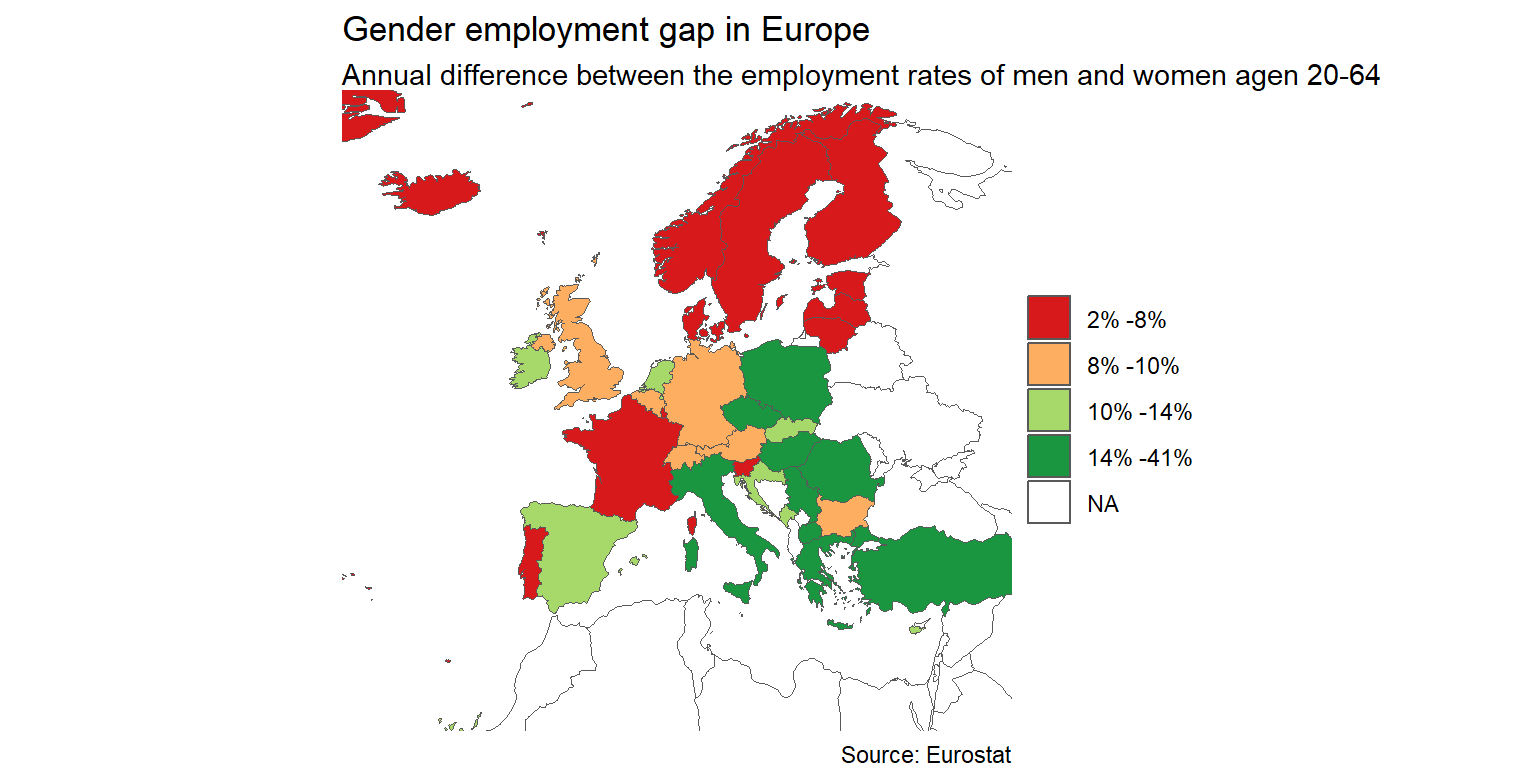
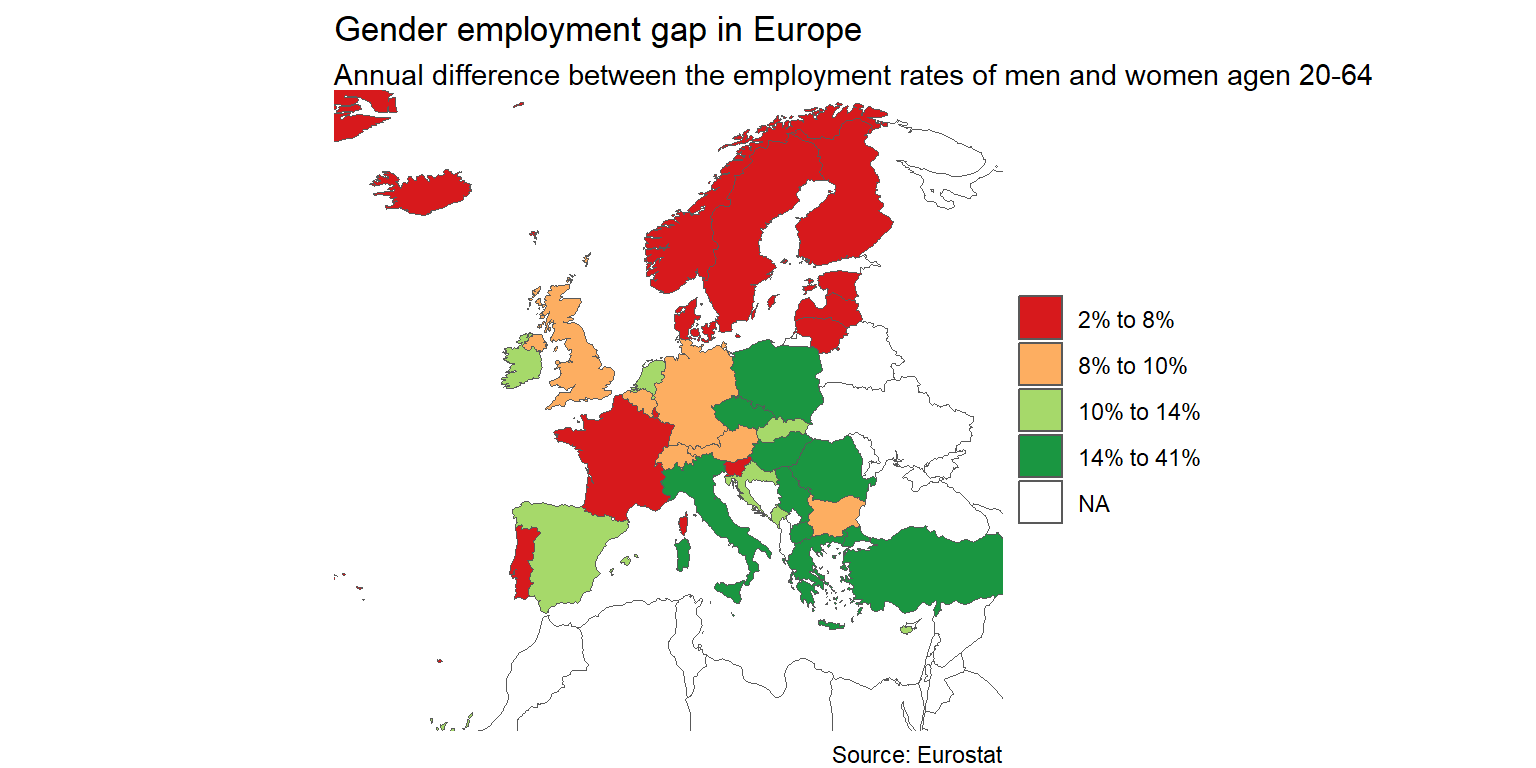
added differences map. fixes #25

diff --git a/Report_3/README.html b/Report_3/README.html
@@ -158,7 +158,7 @@ pre > code.sourceCode > span > a:first-child::before { text-decoration: underlin
 <span id="cb1-38"><a href="#cb1-38" aria-hidden="true" tabindex="-1"></a>               <span class="dv">59</span>)</span>
 <span id="cb1-39"><a href="#cb1-39" aria-hidden="true" tabindex="-1"></a>)</span></code><button title="Copy to Clipboard" class="code-copy-button"><i class="bi"></i></button></pre></div>
 <div class="cell-output cell-output-stdout">
-<pre><code>Test passed 🥳</code></pre>
+<pre><code>Test passed 😸</code></pre>
 </div>
 <div class="sourceCode cell-code" id="cb3"><pre class="sourceCode r code-with-copy"><code class="sourceCode r"><span id="cb3-1"><a href="#cb3-1" aria-hidden="true" tabindex="-1"></a><span class="fu">test_that</span>(<span class="st">"Smallest year should be 2005, largest 2018"</span>,</span>
 <span id="cb3-2"><a href="#cb3-2" aria-hidden="true" tabindex="-1"></a>          <span class="fu">expect_equal</span>(</span>
@@ -166,7 +166,7 @@ pre > code.sourceCode > span > a:first-child::before { text-decoration: underlin
 <span id="cb3-4"><a href="#cb3-4" aria-hidden="true" tabindex="-1"></a>            <span class="fu">max</span>(df_gap_longer<span class="sc">$</span>time) <span class="sc">==</span> <span class="dv">2018</span></span>
 <span id="cb3-5"><a href="#cb3-5" aria-hidden="true" tabindex="-1"></a>          ))</span></code><button title="Copy to Clipboard" class="code-copy-button"><i class="bi"></i></button></pre></div>
 <div class="cell-output cell-output-stdout">
-<pre><code>Test passed 🥳</code></pre>
+<pre><code>Test passed 😀</code></pre>
 </div>
 <div class="sourceCode cell-code" id="cb5"><pre class="sourceCode r code-with-copy"><code class="sourceCode r"><span id="cb5-1"><a href="#cb5-1" aria-hidden="true" tabindex="-1"></a>df_gap_longer <span class="ot">&lt;-</span> df_gap_longer <span class="sc">%&gt;%</span></span>
 <span id="cb5-2"><a href="#cb5-2" aria-hidden="true" tabindex="-1"></a>  <span class="fu">filter</span>(<span class="sc">!</span><span class="fu">is.na</span>(gap)) <span class="co"># Two contries will be dropped here, hence from 41 to 39</span></span>
@@ -183,7 +183,7 @@ pre > code.sourceCode > span > a:first-child::before { text-decoration: underlin
 <span id="cb5-13"><a href="#cb5-13" aria-hidden="true" tabindex="-1"></a>  )</span>
 <span id="cb5-14"><a href="#cb5-14" aria-hidden="true" tabindex="-1"></a>)</span></code><button title="Copy to Clipboard" class="code-copy-button"><i class="bi"></i></button></pre></div>
 <div class="cell-output cell-output-stdout">
-<pre><code>Test passed 😀</code></pre>
+<pre><code>Test passed 🥇</code></pre>
 </div>
 <div class="sourceCode cell-code" id="cb7"><pre class="sourceCode r code-with-copy"><code class="sourceCode r"><span id="cb7-1"><a href="#cb7-1" aria-hidden="true" tabindex="-1"></a><span class="fu">glimpse</span>(df_gap_longer)</span></code><button title="Copy to Clipboard" class="code-copy-button"><i class="bi"></i></button></pre></div>
 <div class="cell-output cell-output-stdout">
@@ -380,7 +380,7 @@ $ gap  &lt;dbl&gt; 16.0, 15.7, 15.6, 15.1, 13.5, 13.0, 12.8, 12.2, 11.7, 11.5, 1
 <span id="cb16-10"><a href="#cb16-10" aria-hidden="true" tabindex="-1"></a>    <span class="fu">slice</span>(<span class="dv">1</span><span class="sc">:</span><span class="fu">n</span>() <span class="sc">-</span> <span class="dv">1</span>) <span class="sc">%&gt;%</span> </span>
 <span id="cb16-11"><a href="#cb16-11" aria-hidden="true" tabindex="-1"></a>    <span class="fu">mutate_all</span>(round, <span class="at">digits =</span> <span class="dv">0</span>) <span class="sc">%&gt;%</span></span>
 <span id="cb16-12"><a href="#cb16-12" aria-hidden="true" tabindex="-1"></a>    <span class="fu">mutate_all</span>(paste0, <span class="st">"%"</span>) <span class="sc">%&gt;%</span> </span>
-<span id="cb16-13"><a href="#cb16-13" aria-hidden="true" tabindex="-1"></a>    <span class="fu">mutate</span>(<span class="at">labs =</span> <span class="fu">paste</span>(lab1, lab2, <span class="at">sep =</span> <span class="st">" -"</span>))</span>
+<span id="cb16-13"><a href="#cb16-13" aria-hidden="true" tabindex="-1"></a>    <span class="fu">mutate</span>(<span class="at">labs =</span> <span class="fu">paste</span>(lab1, lab2, <span class="at">sep =</span> <span class="st">" to "</span>))</span>
 <span id="cb16-14"><a href="#cb16-14" aria-hidden="true" tabindex="-1"></a>  <span class="fu">return</span>(labels<span class="sc">$</span>labs)</span>
 <span id="cb16-15"><a href="#cb16-15" aria-hidden="true" tabindex="-1"></a>}</span>
 <span id="cb16-16"><a href="#cb16-16" aria-hidden="true" tabindex="-1"></a></span>
@@ -483,7 +483,7 @@ $ gap  &lt;dbl&gt; 16.0, 15.7, 15.6, 15.1, 13.5, 13.0, 12.8, 12.2, 11.7, 11.5, 1
 <span id="cb18-37"><a href="#cb18-37" aria-hidden="true" tabindex="-1"></a>        <span class="at">plot.title =</span> <span class="fu">element_text</span>(<span class="at">hjust =</span> <span class="fl">0.5</span>),</span>
 <span id="cb18-38"><a href="#cb18-38" aria-hidden="true" tabindex="-1"></a>        <span class="at">plot.subtitle =</span> <span class="fu">element_text</span>(<span class="at">hjust =</span> <span class="fl">0.5</span>)) <span class="sc">+</span></span>
 <span id="cb18-39"><a href="#cb18-39" aria-hidden="true" tabindex="-1"></a>  <span class="fu">labs</span>(<span class="at">title =</span> <span class="st">"Gender employment gap in Europe"</span>,</span>
-<span id="cb18-40"><a href="#cb18-40" aria-hidden="true" tabindex="-1"></a>       <span class="at">subtitle =</span> <span class="st">"DIfference between 2014 and 2018"</span>,</span>
+<span id="cb18-40"><a href="#cb18-40" aria-hidden="true" tabindex="-1"></a>       <span class="at">subtitle =</span> <span class="st">"DIfference between 2012 and 2018"</span>,</span>
 <span id="cb18-41"><a href="#cb18-41" aria-hidden="true" tabindex="-1"></a>       <span class="at">caption =</span> <span class="st">"Source: Eurostat"</span>) <span class="sc">+</span></span>
 <span id="cb18-42"><a href="#cb18-42" aria-hidden="true" tabindex="-1"></a>  <span class="fu">scale_fill_brewer</span>(<span class="at">palette =</span> <span class="st">"RdYlGn"</span>, <span class="at">direction =</span> <span class="sc">-</span><span class="dv">1</span>) <span class="sc">+</span></span>
 <span id="cb18-43"><a href="#cb18-43" aria-hidden="true" tabindex="-1"></a>  <span class="fu">facet_wrap</span>(<span class="fu">vars</span>(time))</span></code><button title="Copy to Clipboard" class="code-copy-button"><i class="bi"></i></button></pre></div>
@@ -492,8 +492,50 @@ $ gap  &lt;dbl&gt; 16.0, 15.7, 15.6, 15.1, 13.5, 13.0, 12.8, 12.2, 11.7, 11.5, 1
 </div>
 </div>
 </section>
-<section id="task-7-timeseries-from-2012-to-2018" class="level1">
-<h1>Task 7: Timeseries from 2012 to 2018</h1>
+<section id="task-7-differences-in-gender-employment-gap" class="level1">
+<h1>Task 7: Differences in gender employment gap</h1>
+<div class="cell">
+<div class="sourceCode cell-code" id="cb19"><pre class="sourceCode r code-with-copy"><code class="sourceCode r"><span id="cb19-1"><a href="#cb19-1" aria-hidden="true" tabindex="-1"></a><span class="co"># Since we have a long pivot, we use window function to get diff and filter if NA</span></span>
+<span id="cb19-2"><a href="#cb19-2" aria-hidden="true" tabindex="-1"></a>europe_with_gap_diff <span class="ot">&lt;-</span> europe_with_gap_data_ts <span class="sc">%&gt;%</span> </span>
+<span id="cb19-3"><a href="#cb19-3" aria-hidden="true" tabindex="-1"></a>  <span class="fu">arrange</span>(sovereignt,time) <span class="sc">%&gt;%</span> </span>
+<span id="cb19-4"><a href="#cb19-4" aria-hidden="true" tabindex="-1"></a>  <span class="fu">group_by</span>(sovereignt) <span class="sc">%&gt;%</span> </span>
+<span id="cb19-5"><a href="#cb19-5" aria-hidden="true" tabindex="-1"></a>  <span class="fu">mutate</span>(<span class="at">diff =</span> gap<span class="sc">-</span><span class="fu">lag</span>(gap)) <span class="sc">%&gt;%</span> <span class="co">#2018 gap minus 2012 gap</span></span>
+<span id="cb19-6"><a href="#cb19-6" aria-hidden="true" tabindex="-1"></a>  <span class="fu">ungroup</span>() <span class="sc">%&gt;%</span> </span>
+<span id="cb19-7"><a href="#cb19-7" aria-hidden="true" tabindex="-1"></a>  <span class="fu">filter</span>(<span class="sc">!</span><span class="fu">is.na</span>(diff))</span>
+<span id="cb19-8"><a href="#cb19-8" aria-hidden="true" tabindex="-1"></a></span>
+<span id="cb19-9"><a href="#cb19-9" aria-hidden="true" tabindex="-1"></a><span class="co"># get the bins</span></span>
+<span id="cb19-10"><a href="#cb19-10" aria-hidden="true" tabindex="-1"></a>bins <span class="ot">&lt;-</span> <span class="fu">quantile</span>(europe_with_gap_diff <span class="sc">%&gt;%</span></span>
+<span id="cb19-11"><a href="#cb19-11" aria-hidden="true" tabindex="-1"></a>                   <span class="fu">filter</span>(diff <span class="sc">!=</span> <span class="dv">0</span>) <span class="sc">%&gt;%</span></span>
+<span id="cb19-12"><a href="#cb19-12" aria-hidden="true" tabindex="-1"></a>                   <span class="fu">pull</span>(),</span>
+<span id="cb19-13"><a href="#cb19-13" aria-hidden="true" tabindex="-1"></a>                 <span class="fu">c</span>(<span class="dv">0</span>, <span class="fl">0.25</span>, <span class="fl">0.5</span>, <span class="fl">0.75</span>, <span class="dv">1</span>))</span>
+<span id="cb19-14"><a href="#cb19-14" aria-hidden="true" tabindex="-1"></a>rounded_bins <span class="ot">&lt;-</span> <span class="fu">round</span>(bins,<span class="dv">0</span>)</span>
+<span id="cb19-15"><a href="#cb19-15" aria-hidden="true" tabindex="-1"></a></span>
+<span id="cb19-16"><a href="#cb19-16" aria-hidden="true" tabindex="-1"></a><span class="co"># add the labels</span></span>
+<span id="cb19-17"><a href="#cb19-17" aria-hidden="true" tabindex="-1"></a>europe_with_gap_diff <span class="ot">&lt;-</span> europe_with_gap_diff <span class="sc">%&gt;%</span></span>
+<span id="cb19-18"><a href="#cb19-18" aria-hidden="true" tabindex="-1"></a>  <span class="fu">arrange</span>(diff) <span class="sc">%&gt;%</span> </span>
+<span id="cb19-19"><a href="#cb19-19" aria-hidden="true" tabindex="-1"></a>  <span class="fu">mutate</span>(</span>
+<span id="cb19-20"><a href="#cb19-20" aria-hidden="true" tabindex="-1"></a>    <span class="at">bin_diff =</span> <span class="fu">cut</span>(diff,</span>
+<span id="cb19-21"><a href="#cb19-21" aria-hidden="true" tabindex="-1"></a>                   <span class="at">breaks =</span> rounded_bins,</span>
+<span id="cb19-22"><a href="#cb19-22" aria-hidden="true" tabindex="-1"></a>                   <span class="at">labels =</span> <span class="fu">get_labels_from_bins</span>(rounded_bins),</span>
+<span id="cb19-23"><a href="#cb19-23" aria-hidden="true" tabindex="-1"></a>                   <span class="at">right =</span> <span class="cn">TRUE</span>))</span>
+<span id="cb19-24"><a href="#cb19-24" aria-hidden="true" tabindex="-1"></a></span>
+<span id="cb19-25"><a href="#cb19-25" aria-hidden="true" tabindex="-1"></a><span class="fu">ggplot</span>() <span class="sc">+</span></span>
+<span id="cb19-26"><a href="#cb19-26" aria-hidden="true" tabindex="-1"></a>  <span class="fu">geom_sf</span>(<span class="at">data =</span> europe_with_gap_diff,</span>
+<span id="cb19-27"><a href="#cb19-27" aria-hidden="true" tabindex="-1"></a>          <span class="at">mapping =</span> <span class="fu">aes</span>(<span class="at">fill =</span> bin_diff)) <span class="sc">+</span></span>
+<span id="cb19-28"><a href="#cb19-28" aria-hidden="true" tabindex="-1"></a>  <span class="fu">theme_void</span>() <span class="sc">+</span></span>
+<span id="cb19-29"><a href="#cb19-29" aria-hidden="true" tabindex="-1"></a>  <span class="fu">coord_sf</span>(<span class="at">xlim =</span> <span class="fu">c</span>(<span class="sc">-</span><span class="dv">25</span>, <span class="dv">40</span>),</span>
+<span id="cb19-30"><a href="#cb19-30" aria-hidden="true" tabindex="-1"></a>           <span class="at">ylim =</span> <span class="fu">c</span>(<span class="dv">30</span>, <span class="dv">70</span>)) <span class="sc">+</span></span>
+<span id="cb19-31"><a href="#cb19-31" aria-hidden="true" tabindex="-1"></a>  <span class="fu">theme</span>(<span class="at">legend.title =</span> <span class="fu">element_blank</span>(),</span>
+<span id="cb19-32"><a href="#cb19-32" aria-hidden="true" tabindex="-1"></a>        <span class="at">plot.title =</span> <span class="fu">element_text</span>(<span class="at">hjust =</span> <span class="fl">0.5</span>),</span>
+<span id="cb19-33"><a href="#cb19-33" aria-hidden="true" tabindex="-1"></a>        <span class="at">plot.subtitle =</span> <span class="fu">element_text</span>(<span class="at">hjust =</span> <span class="fl">0.5</span>)) <span class="sc">+</span></span>
+<span id="cb19-34"><a href="#cb19-34" aria-hidden="true" tabindex="-1"></a>  <span class="fu">labs</span>(<span class="at">title =</span> <span class="st">"Gender employment gap in Europe"</span>,</span>
+<span id="cb19-35"><a href="#cb19-35" aria-hidden="true" tabindex="-1"></a>       <span class="at">subtitle =</span> <span class="st">"Difference between 2012 and 2018"</span>,</span>
+<span id="cb19-36"><a href="#cb19-36" aria-hidden="true" tabindex="-1"></a>       <span class="at">caption =</span> <span class="st">"Source: Eurostat"</span>) <span class="sc">+</span> </span>
+<span id="cb19-37"><a href="#cb19-37" aria-hidden="true" tabindex="-1"></a>   <span class="fu">scale_fill_brewer</span>(<span class="at">palette =</span> <span class="st">"RdYlGn"</span>, <span class="at">direction =</span> <span class="sc">-</span><span class="dv">1</span>)</span></code><button title="Copy to Clipboard" class="code-copy-button"><i class="bi"></i></button></pre></div>
+<div class="cell-output-display">
+<p><img src="README_files/figure-html/unnamed-chunk-12-1.png" class="img-fluid" width="768"></p>
+</div>
+</div>
 </section>
 
 </main>
